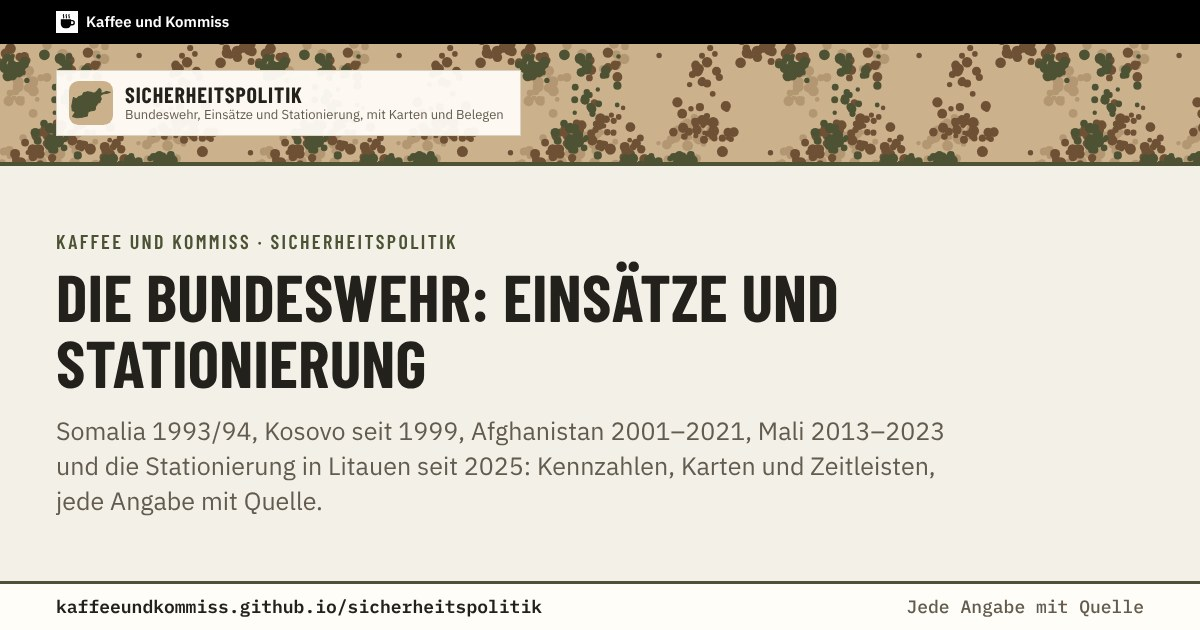
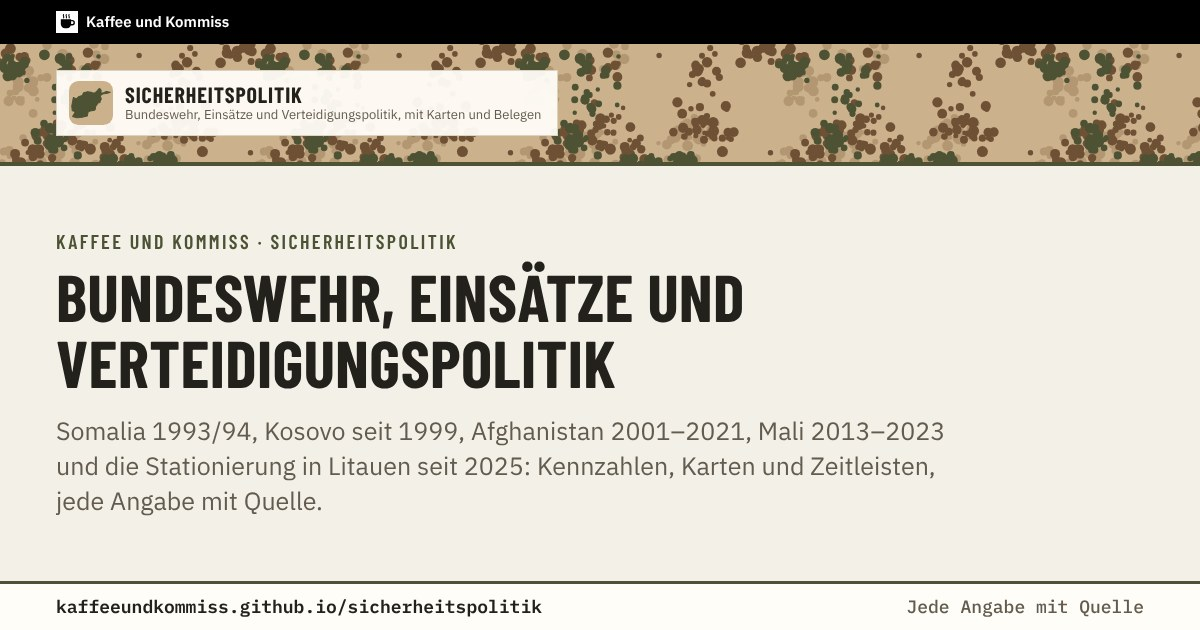
Übersichten: eigene Zugänge zu Verteidigungspolitik und Parteipositionen
Sicherheitspolitik-Übersicht: neue Gruppe „Verteidigungspolitik“ mit
Karten zu Parlamentsarmee, Verteidigungsausgaben/Zeitenwende und
Positionen/Abstimmungen; Titel jetzt „Bundeswehr, Einsätze und
Verteidigungspolitik“ (auch Startseite, Vorschau). Politik-Übersicht:
Gruppe „Positionen, Entscheidungen und Wahlrecht“ mit Karten zu
Abstimmungen/Wahlprogrammen und Wahlen. Doppelte Bezüge-Links entfernt.
Dazu der bisher nicht gemergte Abschnitt Wahlprogramme 2025 (#programme).

Claude-Session: https://claude.ai/code/session_01AuP7hHuBsEzNoN93syrafp

Changed region(s): [[0.0617, 0.3921, 0.7092, 0.5127], [0.0308, 0.5429, 0.5242, 0.6333], [0.2467, 0.0905, 0.4625, 0.2413]]

diff --git a/sicherheitspolitik/index.html b/sicherheitspolitik/index.html
@@ -4,21 +4,21 @@
 <meta charset="utf-8">
 <meta name="viewport" content="width=device-width, initial-scale=1">
 <title>Sicherheitspolitik · Kaffee und Kommiss</title>
-<meta name="description" content="Die Bundeswehr seit 1955 im Überblick, Auslandseinsätze in Somalia, Afghanistan, Mali und im Kosovo sowie die Stationierung in Litauen: Kennzahlen, Karten und Zeitleisten, jede Angabe mit Quelle.">
+<meta name="description" content="Die Bundeswehr seit 1955 im Überblick, wer über Einsätze und Verteidigungsausgaben entscheidet, Auslandseinsätze in Somalia, Afghanistan, Mali und im Kosovo sowie die Stationierung in Litauen: Kennzahlen, Karten und Zeitleisten, jede Angabe mit Quelle.">
 <link rel="canonical" href="https://kaffeeundkommiss.github.io/sicherheitspolitik/">
 <meta property="og:type" content="website">
 <meta property="og:locale" content="de_DE">
 <meta property="og:site_name" content="Kaffee und Kommiss">
 <meta property="og:title" content="Sicherheitspolitik · Kaffee und Kommiss">
-<meta property="og:description" content="Die Bundeswehr seit 1955 im Überblick, Auslandseinsätze in Somalia, Afghanistan, Mali und im Kosovo sowie die Stationierung in Litauen: Kennzahlen, Karten und Zeitleisten, jede Angabe mit Quelle.">
+<meta property="og:description" content="Die Bundeswehr seit 1955 im Überblick, wer über Einsätze und Verteidigungsausgaben entscheidet, Auslandseinsätze in Somalia, Afghanistan, Mali und im Kosovo sowie die Stationierung in Litauen: Kennzahlen, Karten und Zeitleisten, jede Angabe mit Quelle.">
 <meta property="og:url" content="https://kaffeeundkommiss.github.io/sicherheitspolitik/">
 <!-- Vorschau für Linkvorschauen, erzeugt mit werkzeuge/vorschau.js -->
-<meta property="og:image" content="https://kaffeeundkommiss.github.io/vorschau/sicherheitspolitik.jpg?v=48f12ddc">
+<meta property="og:image" content="https://kaffeeundkommiss.github.io/vorschau/sicherheitspolitik.jpg?v=8ca345fb">
 <meta property="og:image:width" content="1200">
 <meta property="og:image:height" content="630">
-<meta property="og:image:alt" content="Die Bundeswehr: Einsätze und Stationierung: Kaffee und Kommiss">
+<meta property="og:image:alt" content="Bundeswehr, Einsätze und Verteidigungspolitik: Kaffee und Kommiss">
 <meta name="twitter:card" content="summary_large_image">
-<meta name="twitter:image" content="https://kaffeeundkommiss.github.io/vorschau/sicherheitspolitik.jpg?v=48f12ddc">
+<meta name="twitter:image" content="https://kaffeeundkommiss.github.io/vorschau/sicherheitspolitik.jpg?v=8ca345fb">
 <link rel="icon" href="../icons/sicherheitspolitik.svg" type="image/svg+xml">
 <link rel="icon" href="../favicon-32.png" type="image/png" sizes="32x32">
 <link rel="apple-touch-icon" sizes="180x180" href="../apple-touch-icon.png?v=2">
@@ -40,7 +40,7 @@
       <img class="logo" src="../icons/sicherheitspolitik.svg" alt="" width="44" height="44">
       <div>
         <div class="kk-name">Sicherheitspolitik</div>
-        <div class="kk-unter">Bundeswehr, Einsätze und Stationierung, mit Karten und Belegen</div>
+        <div class="kk-unter">Bundeswehr, Einsätze und Verteidigungspolitik, mit Karten und Belegen</div>
       </div>
     </div>
   </div>
@@ -49,8 +49,8 @@
 <main>
   <section class="einleitung">
     <div class="kicker">Bereich Sicherheitspolitik</div>
-    <h1>Die Bundeswehr: Einsätze und Stationierung</h1>
-    <p>Die Bundeswehr seit ihrer Gründung 1955 und ihre Einsätze im Ausland und im Inland. Jeder Auslandseinsatz und die Stationierung in Litauen haben eine eigene, gleich aufgebaute Seite mit Kennzahlen, Karte, Zeitleiste und besonderen Ereignissen.</p>
+    <h1>Bundeswehr, Einsätze und Verteidigungspolitik</h1>
+    <p>Die Bundeswehr seit ihrer Gründung 1955, wer in Deutschland über Einsätze und Verteidigungsausgaben entscheidet, und die Einsätze im Ausland und im Inland. Jeder Auslandseinsatz und die Stationierung in Litauen haben eine eigene, gleich aufgebaute Seite mit Kennzahlen, Karte, Zeitleiste und besonderen Ereignissen.</p>
     <p class="beleg-hinweis"><span class="marke">Zu den Belegen</span> Jede Seite hat ein Quellenverzeichnis. Angaben mit nur einer Quelle sind gekennzeichnet, Widersprüche zwischen Quellen sind ausgewiesen.</p>
   </section>
 
@@ -63,6 +63,32 @@
         <span class="titel">Die Bundeswehr seit 1955</span>
         <span class="text">Was die Bundeswehr seit ihrer Gründung im Ausland und im Inland getan hat, von der Sturmflut 1962 bis heute. Dazu, warum sich ihr Auftrag nach 1990 und erneut seit 2022 verändert hat, alle Verteidigungsminister in einer Zeitleiste sowie Gedenken und Auszeichnungen für Tapferkeit.</span>
         <span class="hinweis">Mit Quellen je Aussage</span>
+      </a>
+    </div>
+  </section>
+  <section class="themen" aria-labelledby="g-vp">
+    <h2 class="gruppe" id="g-vp">Verteidigungspolitik: Wer entscheidet, was es kostet</h2>
+    <div class="projekte">
+      <a class="projekt kk-b-sipo" href="bundeswehr/#parlament">
+        <span class="band"><img src="../icons/sicherheitspolitik.svg" alt="" width="40" height="40"></span>
+        <span class="rubrik">Bundestag und Einsätze</span>
+        <span class="titel">Parlamentsarmee</span>
+        <span class="text">Über bewaffnete Auslandseinsätze entscheidet der Bundestag. Was das Grundgesetz und das Urteil von 1994 verlangen, wie ein Mandat in sechs Schritten entsteht und welche Ausnahmen es gibt.</span>
+        <span class="hinweis">Abschnitt der Bundeswehr-Übersicht</span>
+      </a>
+      <a class="projekt kk-b-sipo" href="bundeswehr/#ausgaben">
+        <span class="band"><img src="../icons/sicherheitspolitik.svg" alt="" width="40" height="40"></span>
+        <span class="rubrik">Haushalt und NATO-Ziel</span>
+        <span class="titel">Verteidigungsausgaben und Zeitenwende</span>
+        <span class="text">Die Militärausgaben seit 1953 als Anteil an der Wirtschaftsleistung, gemessen am NATO-Ziel, dazu was sich seit 2022 geändert hat: Sondervermögen, Grundgesetzänderung 2025 und neuer Wehrdienst.</span>
+        <span class="hinweis">Mit Diagramm, Abschnitt der Bundeswehr-Übersicht</span>
+      </a>
+      <a class="projekt kk-b-sipo" href="https://kaffeeundkommiss.github.io/politik/abstimmungen/">
+        <span class="band"><img src="../icons/politik.svg" alt="" width="40" height="40"></span>
+        <span class="rubrik">Parteien im Vergleich</span>
+        <span class="titel">Positionen und Abstimmungen</span>
+        <span class="text">Wie die Fraktionen bei Sondervermögen, Grundgesetzänderung 2025, Brigade Litauen und neuem Wehrdienst abgestimmt haben und was die Wahlprogramme 2025 zu Wehrpflicht, Ausgaben und NATO sagen.</span>
+        <span class="hinweis">Seite im Bereich Politik</span>
       </a>
     </div>
   </section>
@@ -114,8 +140,6 @@
   <section class="bezuege" aria-labelledby="g-bezug">
     <h2 class="gruppe" id="g-bezug">Bezüge zu den anderen Bereichen</h2>
     <div class="bezug-liste">
-      <a href="https://kaffeeundkommiss.github.io/politik/abstimmungen/"><b>Politik: Wie die Fraktionen abgestimmt haben</b><span>Sondervermögen 2022, Grundgesetzänderung 2025, Brigade Litauen und neuer Wehrdienst: das Abstimmungsverhalten der Fraktionen im Bundestag.</span></a>
-      <a href="https://kaffeeundkommiss.github.io/sicherheitspolitik/bundeswehr/#parlament"><b>Politik: Wer über Einsätze entscheidet</b><span>Seit dem Urteil des Bundesverfassungsgerichts von 1994 braucht ein bewaffneter Auslandseinsatz die Zustimmung des Bundestages. Wie ein Mandat entsteht, zeigt der Abschnitt „Parlamentsarmee“.</span></a>
       <a href="https://kaffeeundkommiss.github.io/politik/"><b>Politik: Parteien im Bundestag</b><span>Welche Parteien im Bundestag über Mandate abstimmen und wie sie in Umfragen stehen, zeigen die Partei-Monitore.</span></a>
       <a href="https://kaffeeundkommiss.github.io/geschichte/"><b>Geschichte: Deutsche Streitkräfte bis 1918</b><span>Die Einigungskriege 1864–1871 und der Erste Weltkrieg 1914–1918, mit Karten, Einzelschicksalen und 3D-Modellen.</span></a>
     </div>

diff --git a/politik/index.html b/politik/index.html
@@ -50,7 +50,7 @@
   <section class="einleitung">
     <div class="kicker">Bereich Politik</div>
     <h1>Parteien im Überblick</h1>
-    <p>Je Partei eine Seite mit gleichem Aufbau: aktuelle Umfragewerte für Bund und Länder (Quelle dawum.de), amtliche Wahlergebnisse und Daten zur Partei auf Bundesebene.</p>
+    <p>Je Partei eine Seite mit gleichem Aufbau: aktuelle Umfragewerte für Bund und Länder (Quelle dawum.de), amtliche Wahlergebnisse und Daten zur Partei auf Bundesebene. Dazu ein Vergleich der Parteipositionen und des Abstimmungsverhaltens zur Sicherheitspolitik sowie das Wahlsystem.</p>
   </section>
 
   <h2 class="gruppe" id="g-parteien">Parteien und Wahlen</h2>
@@ -109,6 +109,26 @@
   </section>
   </div>
 
+  <section class="themen" aria-labelledby="g-sach">
+    <h2 class="gruppe" id="g-sach">Positionen, Entscheidungen und Wahlrecht</h2>
+    <div class="projekte">
+      <a class="projekt kk-b-poli" href="abstimmungen/">
+        <span class="band"><img src="../icons/politik.svg" alt="" width="40" height="40"></span>
+        <span class="rubrik">Parteien im Vergleich · Sicherheitspolitik</span>
+        <span class="titel">Positionen und Abstimmungen</span>
+        <span class="text">Wie die Fraktionen bei vier Entscheidungen seit 2022 abgestimmt haben (Sondervermögen, Grundgesetzänderung 2025, Brigade Litauen, neuer Wehrdienst) und was die Wahlprogramme 2025 der sechs Parteien zu Wehrpflicht, Verteidigungsausgaben und NATO sagen, im Wortlaut.</span>
+        <span class="hinweis">Mit Quellen je Angabe, ohne Wertung</span>
+      </a>
+      <a class="projekt kk-b-poli" href="wahlen/">
+        <span class="band"><img src="../icons/koalitionen.svg" alt="" width="40" height="40"></span>
+        <span class="rubrik">Wahlsystem und Regierungen</span>
+        <span class="titel">Wahlen und Koalitionen</span>
+        <span class="text">Wie aus Erst- und Zweitstimmen 630 Sitze werden, was die 5-%-Hürde und die Grundmandatsklausel bedeuten, alle Bundesregierungen seit 1949 und welche Koalitionen es in den Ländern schon gab.</span>
+        <span class="hinweis">Mit Quellen je Angabe</span>
+      </a>
+    </div>
+  </section>
+
   <section class="umfragevergleich" aria-labelledby="g-umfragen">
     <h2 class="gruppe" id="g-umfragen">Bundestag: Umfragen im Vergleich</h2>
     <p class="uv-text">Die neueste Umfrage jedes Instituts zur nächsten Bundestagswahl, in Prozent; wie im Koalitionsrechner nur Umfragen aus den 90 Tagen vor der neuesten. Umfragen sind Momentaufnahmen, keine Prognosen. Wie aus Zweitstimmen Sitze werden, erklärt die Seite <a href="wahlen/">Wahlen und Koalitionen</a>.</p>
@@ -118,8 +138,6 @@
   <section class="bezuege" aria-labelledby="g-bezug">
     <h2 class="gruppe" id="g-bezug">Bezüge zu den anderen Bereichen</h2>
     <div class="bezug-liste">
-      <a href="https://kaffeeundkommiss.github.io/politik/wahlen/"><b>Politik: Wahlen und Koalitionen</b><span>Wie der Bundestag gewählt wird, was die 5-%-Hürde bedeutet, und welche Koalitionen es in Bund und Ländern schon gab.</span></a>
-      <a href="https://kaffeeundkommiss.github.io/politik/abstimmungen/"><b>Politik: Sicherheitspolitik im Bundestag</b><span>Wie die Fraktionen bei Sondervermögen, Grundgesetzänderung 2025, Brigade Litauen und neuem Wehrdienst abgestimmt haben, und was die Wahlprogramme 2025 dazu sagen.</span></a>
       <a href="https://kaffeeundkommiss.github.io/sicherheitspolitik/bundeswehr/#parlament"><b>Sicherheitspolitik: Bundestag und Auslandseinsätze</b><span>Über bewaffnete Auslandseinsätze entscheidet der Bundestag. Wie ein Mandat entsteht und wie abgestimmt wurde, zeigt der Abschnitt „Parlamentsarmee“.</span></a>
       <a href="https://kaffeeundkommiss.github.io/sicherheitspolitik/bundeswehr/"><b>Sicherheitspolitik: Die Bundeswehr seit 1955</b><span>Wie sich der Auftrag der Bundeswehr nach 1990 und seit 2022 verändert hat, und alle Verteidigungsminister seit 1955.</span></a>
       <a href="https://kaffeeundkommiss.github.io/geschichte/einigungskriege/"><b>Geschichte: Wie das Kaiserreich entstand</b><span>Die Einigungskriege 1864–1871, an deren Ende 1871 das Deutsche Kaiserreich ausgerufen wurde.</span></a>

diff --git a/index.html b/index.html
@@ -74,8 +74,8 @@
     <a class="projekt kk-b-sipo" href="https://kaffeeundkommiss.github.io/sicherheitspolitik/">
       <span class="band"><img src="icons/sicherheitspolitik.svg" alt="" width="40" height="40"></span>
       <span class="rubrik">Sicherheitspolitik</span>
-      <span class="titel">Die Bundeswehr: Einsätze und Stationierung</span>
-      <span class="text">Die Bundeswehr seit 1955, ihre Auslandseinsätze und die Stationierung in Litauen. Je Thema Kennzahlen, Karten und eine Zeitleiste.</span>
+      <span class="titel">Bundeswehr, Einsätze und Verteidigungspolitik</span>
+      <span class="text">Die Bundeswehr seit 1955, wer über Einsätze und Verteidigungsausgaben entscheidet, ihre Auslandseinsätze und die Stationierung in Litauen. Je Thema Kennzahlen, Karten und eine Zeitleiste.</span>
       <span class="hinweis">Mit Karten und Zeitleiste</span>
     </a>
     <a class="projekt kk-b-poli" href="https://kaffeeundkommiss.github.io/politik/">
